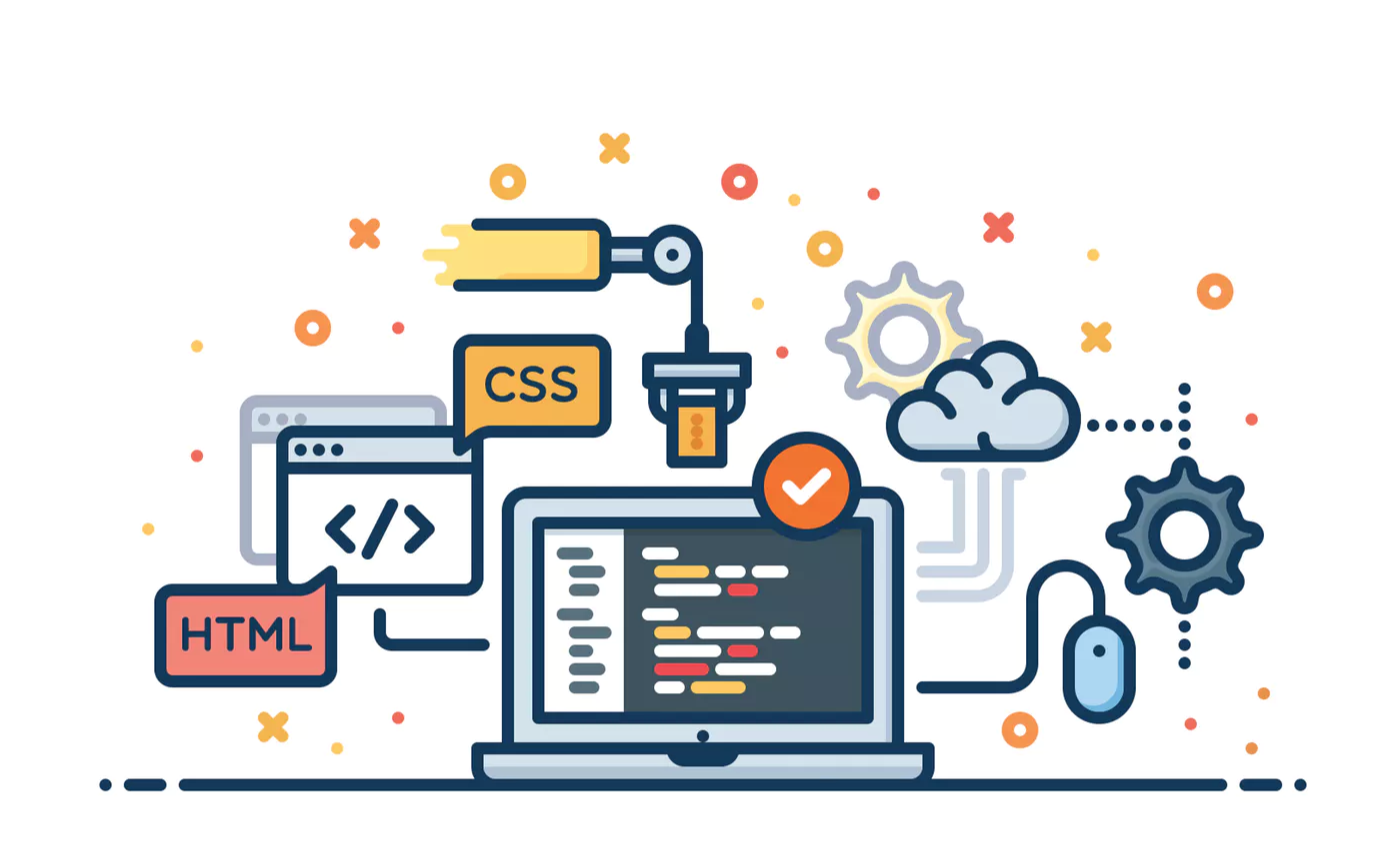
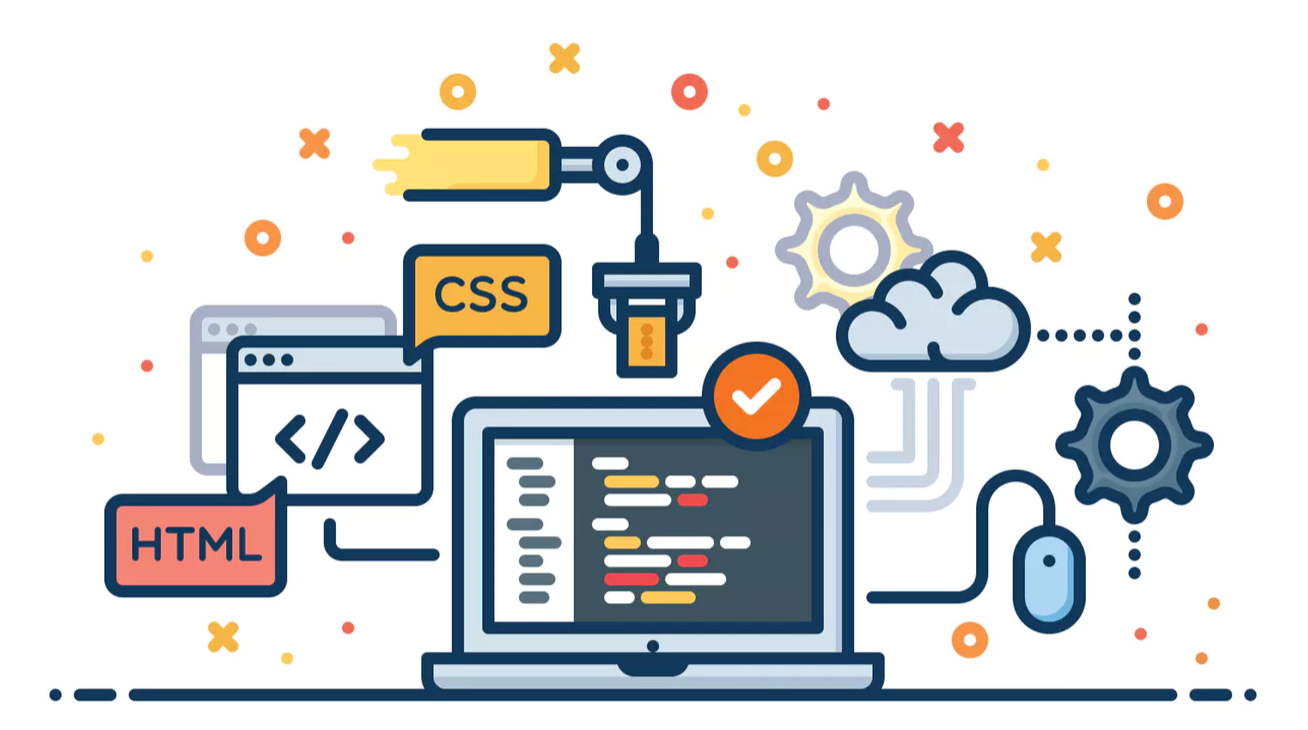
fixed hero image

diff --git a/resources/views/pages/home.blade.php b/resources/views/pages/home.blade.php
@@ -15,7 +15,7 @@
                 </p>
             </div>
             <div class="col-lg">
-                <img src="/img/graphic.png" alt="" style="width: 100%;margin-top: -40px;">
+                <img src="/img/graphic.png" alt="" style="width: 100%;">
             </div>
         </div>
     </div>
